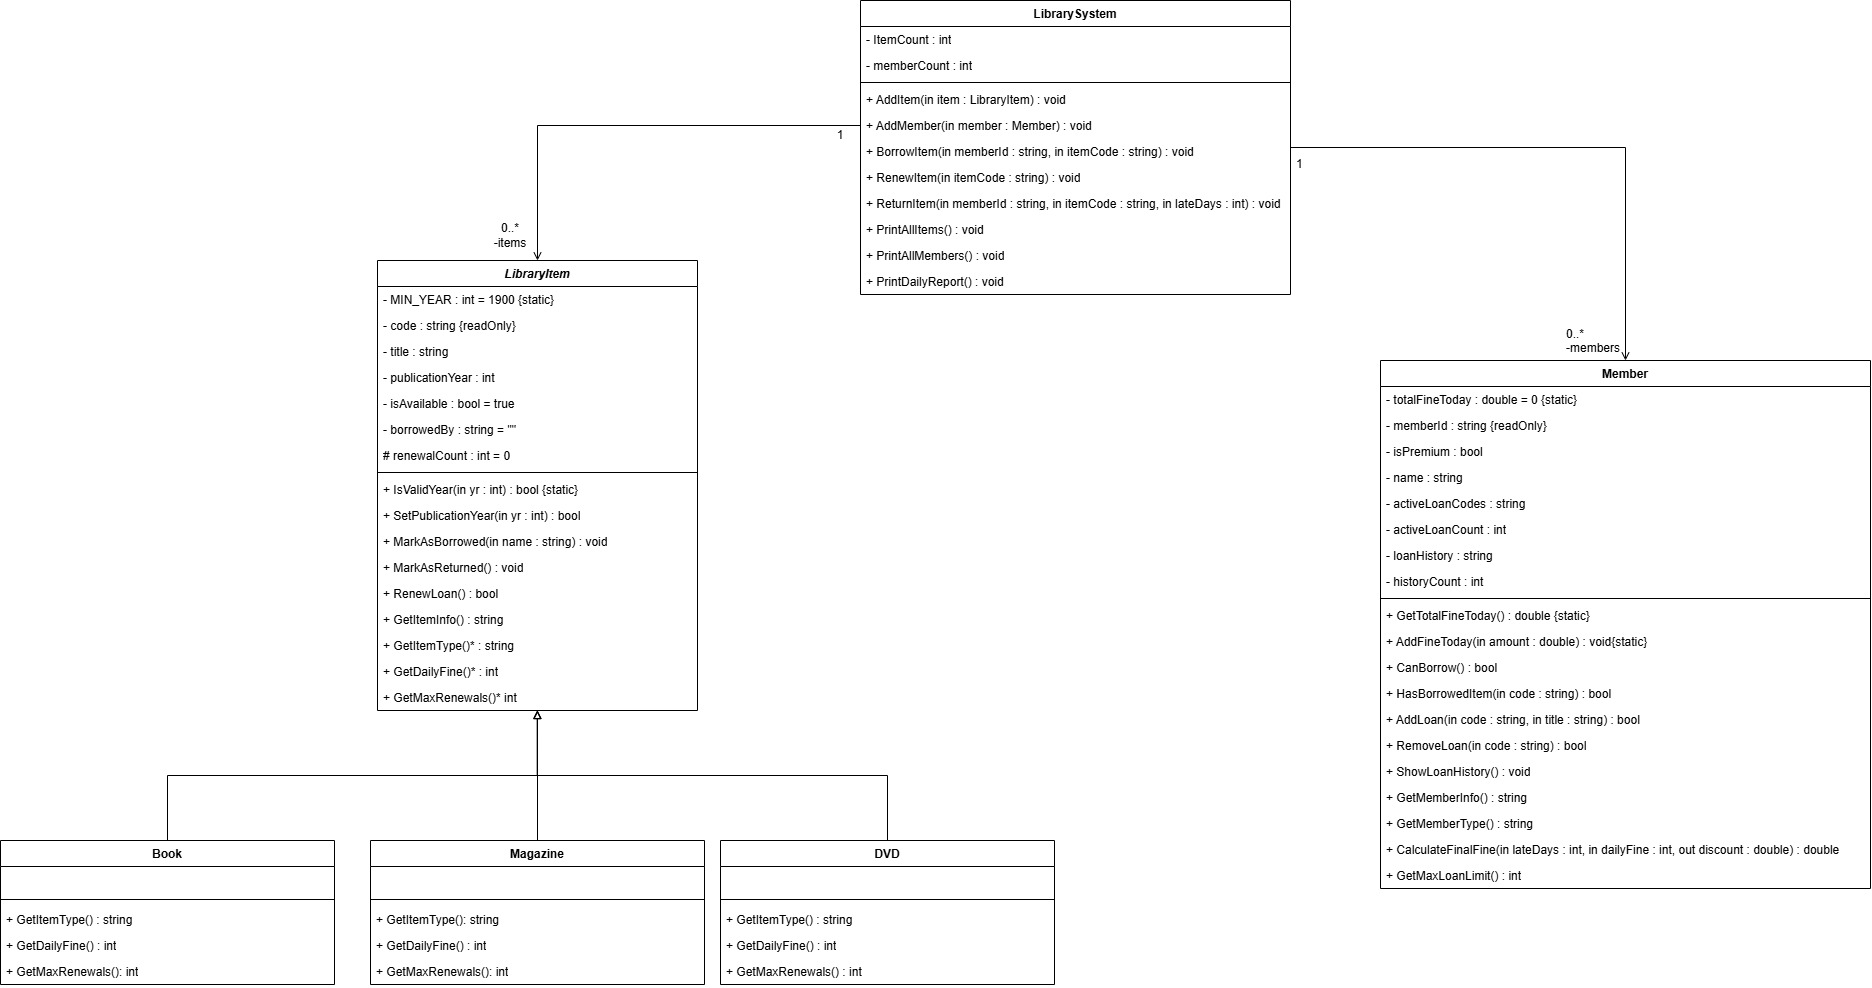
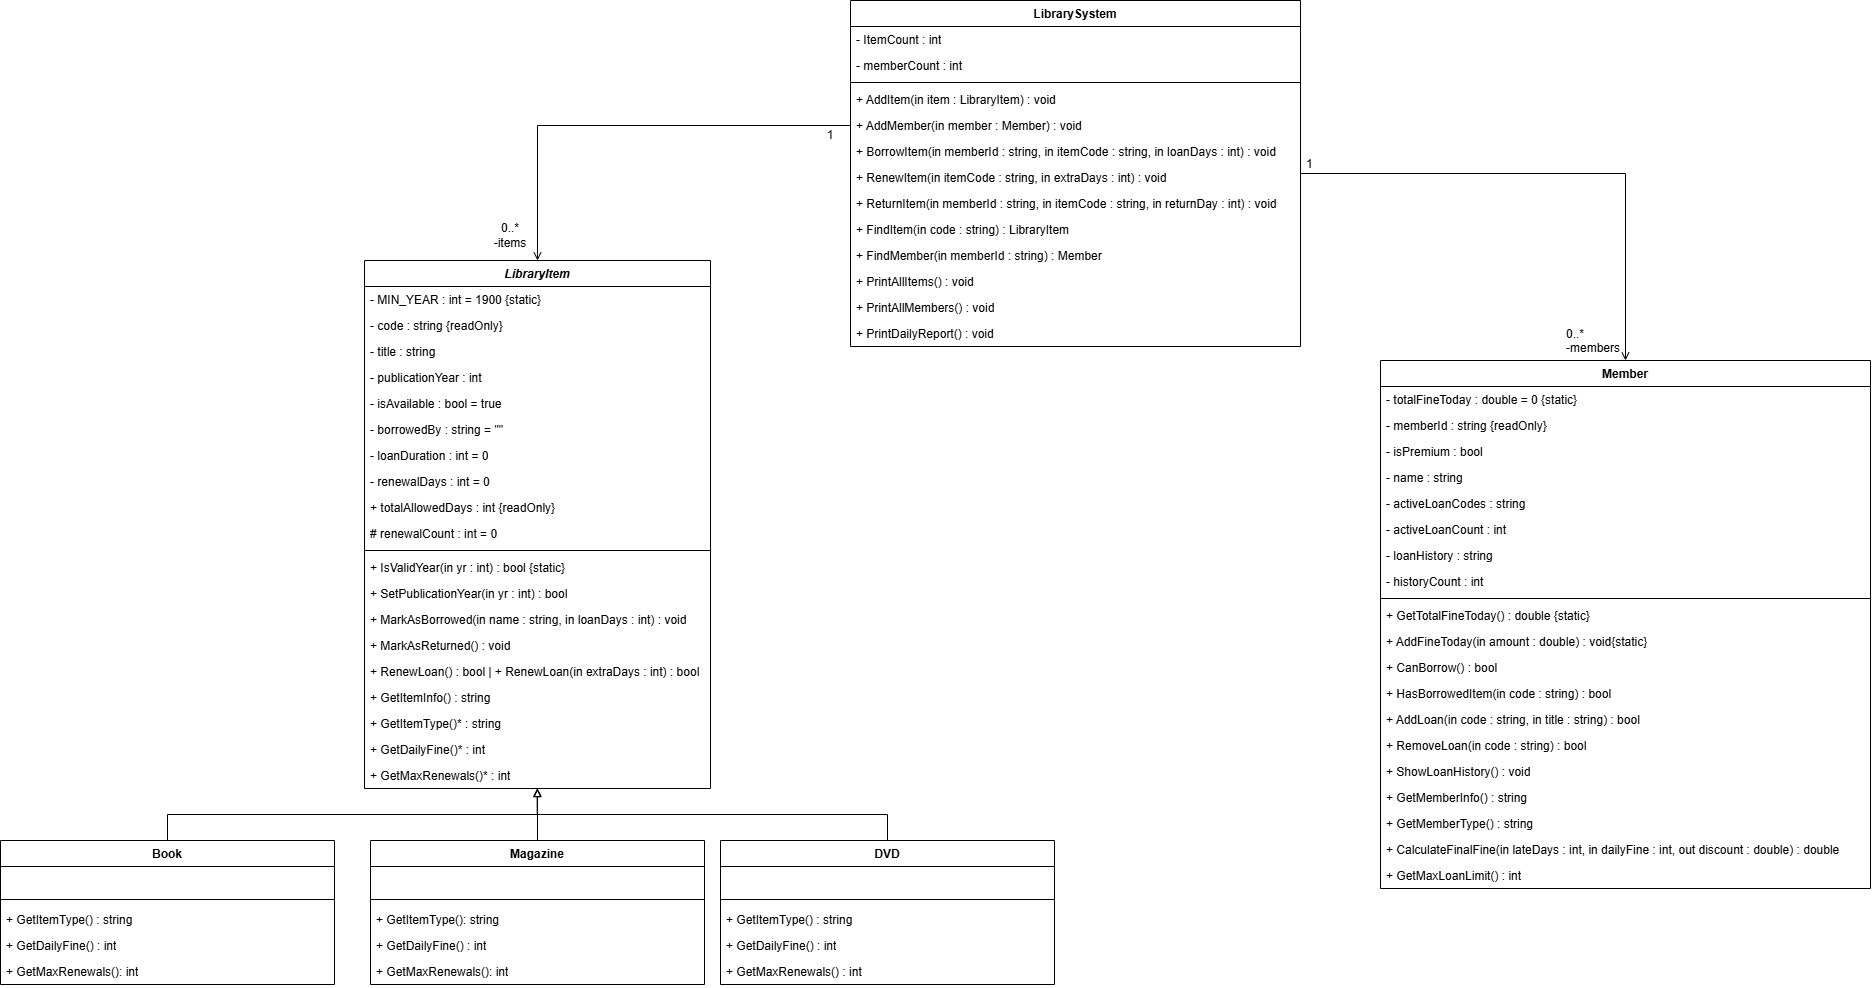
fix-classdiagram
memperbaiki nama ke inggris

Changed region(s): [[0.1859, 0.2733, 0.3718, 0.7895], [0.4647, 0.0304, 0.6816, 0.3644]]

diff --git a/Perpustakaan/LoanFeature.cs b/Perpustakaan/LoanFeature.cs
@@ -13,41 +13,41 @@ internal static class LoanFeature
     public static void ProcessBorrow(LibrarySystem system)
     {
         Console.WriteLine("\n--- PEMINJAMAN BAHAN PUSTAKA ---");
-        string idPinjam = Validation.ReadNonEmptyString("Masukkan Nomor Anggota (contoh: 1): ");
-        string kodePinjam = Validation.ReadNonEmptyString("Masukkan Kode Bahan Pustaka (contoh: 1, B001): ");
+        string memberId = Validation.ReadNonEmptyString("Masukkan Nomor Anggota (contoh: 1): ");
+        string itemCode = Validation.ReadNonEmptyString("Masukkan Kode Bahan Pustaka (contoh: 1, B001): ");
         int loanDays = Validation.ReadPositiveInt("Masukkan masa pinjam (hari): ");
 
-        system.BorrowItem(idPinjam, kodePinjam, loanDays);
+        system.BorrowItem(memberId, itemCode, loanDays);
     }
 
     // Case 4: Perpanjang Peminjaman
     public static void ProcessRenew(LibrarySystem system)
     {
         Console.WriteLine("\n--- PERPANJANG PEMINJAMAN ---");
-        string kodePerpanjang = Validation.ReadNonEmptyString("Masukkan Kode Bahan Pustaka yang akan diperpanjang: ");
+        string itemCode = Validation.ReadNonEmptyString("Masukkan Kode Bahan Pustaka yang akan diperpanjang: ");
         int extraDays = Validation.ReadPositiveInt("Perpanjang berapa hari?: ");
 
-        system.RenewItem(kodePerpanjang, extraDays);
+        system.RenewItem(itemCode, extraDays);
     }
 
     // Case 5: Kembalikan Bahan Pustaka
     public static void ProcessReturn(LibrarySystem system)
     {
         Console.WriteLine("\n--- PENGEMBALIAN BAHAN PUSTAKA ---");
-        string idKembali = Validation.ReadNonEmptyString("Masukkan Nomor Anggota: ");
-        string kodeKembali = Validation.ReadNonEmptyString("Masukkan Kode Bahan Pustaka: ");
+        string memberId = Validation.ReadNonEmptyString("Masukkan Nomor Anggota: ");
+        string itemCode = Validation.ReadNonEmptyString("Masukkan Kode Bahan Pustaka: ");
         int returnDay = Validation.ReadPositiveInt("Dikembalikan pada hari ke berapa?: ");
 
-        system.ReturnItem(idKembali, kodeKembali, returnDay);
+        system.ReturnItem(memberId, itemCode, returnDay);
     }
 
     // Case 7: Tampilkan Riwayat Peminjaman Anggota
     public static void ProcessMemberHistory(LibrarySystem system)
     {
         Console.WriteLine("\n--- RIWAYAT PEMINJAMAN ANGGOTA ---");
-        string idRiwayat = Validation.ReadNonEmptyString("Masukkan Nomor Anggota yang ingin dilihat riwayatnya: ");
+        string memberId = Validation.ReadNonEmptyString("Masukkan Nomor Anggota yang ingin dilihat riwayatnya: ");
 
-        Member? member = system.FindMember(idRiwayat);
+        Member? member = system.FindMember(memberId);
         if (member != null)
         {
             member.ShowLoanHistory();

diff --git a/Perpustakaan/LibrarySystem.cs b/Perpustakaan/LibrarySystem.cs
@@ -231,27 +231,27 @@ internal class LibrarySystem
     // 8. Laporan Hari Ini
     public void PrintDailyReport()
     {
-        int countBuku = 0, countMajalah = 0, countDVD = 0;
-        int totalDipinjam = 0;
+        int bookCount = 0, magazineCount = 0, dvdCount = 0;
+        int totalBorrowed = 0;
 
         for (int i = 0; i < itemCount; i++)
         {
             string type = items[i].GetItemType();
-            if (type.Equals("Buku", StringComparison.OrdinalIgnoreCase) || type.Equals("Book", StringComparison.OrdinalIgnoreCase)) countBuku++;
-            else if (type.Equals("Majalah", StringComparison.OrdinalIgnoreCase) || type.Equals("Magazine", StringComparison.OrdinalIgnoreCase)) countMajalah++;
-            else if (type.Equals("DVD", StringComparison.OrdinalIgnoreCase)) countDVD++;
+            if (type.Equals("Buku", StringComparison.OrdinalIgnoreCase) || type.Equals("Book", StringComparison.OrdinalIgnoreCase)) bookCount++;
+            else if (type.Equals("Majalah", StringComparison.OrdinalIgnoreCase) || type.Equals("Magazine", StringComparison.OrdinalIgnoreCase)) magazineCount++;
+            else if (type.Equals("DVD", StringComparison.OrdinalIgnoreCase)) dvdCount++;
 
             if (!items[i].IsAvailable)
             {
-                totalDipinjam++;
+                totalBorrowed++;
             }
         }
 
         Console.WriteLine("\n=== LAPORAN HARIAN PERPUSTAKAAN ===");
-        Console.WriteLine("Jumlah Buku   : " + countBuku);
-        Console.WriteLine("Jumlah Majalah: " + countMajalah);
-        Console.WriteLine("Jumlah DVD    : " + countDVD);
-        Console.WriteLine("Total Dipinjam: " + totalDipinjam);
+        Console.WriteLine("Jumlah Buku   : " + bookCount);
+        Console.WriteLine("Jumlah Majalah: " + magazineCount);
+        Console.WriteLine("Jumlah DVD    : " + dvdCount);
+        Console.WriteLine("Total Dipinjam: " + totalBorrowed);
         Console.WriteLine("Total Denda Hari Ini: Rp " + Member.GetTotalFineToday());
         Console.WriteLine("===================================");
     }

diff --git a/Perpustakaan/ItemFeature.cs b/Perpustakaan/ItemFeature.cs
@@ -17,26 +17,26 @@ internal static class ItemFeature
         Console.WriteLine("2. Majalah (Denda Rp 500/hari, Maks. Perpanjang 1x)");
         Console.WriteLine("3. DVD (Denda Rp 3.000/hari, Tidak Bisa Diperpanjang)");
 
-        int jenisPilihan = Validation.ReadIntInRange("Pilihan (1-3): ", 1, 3);
+        int itemChoice = Validation.ReadIntInRange("Pilihan (1-3): ", 1, 3);
 
-        string kodeBaru = Validation.ReadNonEmptyString("Masukkan Kode Bahan Pustaka (unik): ");
+        string newCode = Validation.ReadNonEmptyString("Masukkan Kode Bahan Pustaka (unik): ");
 
         // Cek duplikasi kode item sebelum membuat objek
-        if (system.FindItem(kodeBaru) != null)
+        if (system.FindItem(newCode) != null)
         {
-            Console.WriteLine($"\n[Gagal] Kode bahan pustaka '{kodeBaru}' sudah terdaftar dalam sistem.");
+            Console.WriteLine($"\n[Gagal] Kode bahan pustaka '{newCode}' sudah terdaftar dalam sistem.");
             return;
         }
 
-        string judulBaru = Validation.ReadNonEmptyString("Masukkan Judul: ");
-        int tahunBaru = Validation.ReadPublicationYear($"Masukkan Tahun Terbit (1900-{DateTime.Now.Year}): ");
+        string newTitle = Validation.ReadNonEmptyString("Masukkan Judul: ");
+        int newYear = Validation.ReadPublicationYear($"Masukkan Tahun Terbit (1900-{DateTime.Now.Year}): ");
 
         // POLYMORPHISM: Membuat instance child class sesuai pilihan, ditampung sebagai LibraryItem
-        LibraryItem? newItem = jenisPilihan switch
+        LibraryItem? newItem = itemChoice switch
         {
-            1 => new Book(kodeBaru, judulBaru, tahunBaru),
-            2 => new Magazine(kodeBaru, judulBaru, tahunBaru),
-            3 => new Dvd(kodeBaru, judulBaru, tahunBaru),
+            1 => new Book(newCode, newTitle, newYear),
+            2 => new Magazine(newCode, newTitle, newYear),
+            3 => new Dvd(newCode, newTitle, newYear),
             _ => null
         };
 

diff --git a/Perpustakaan/LibraryApp.cs b/Perpustakaan/LibraryApp.cs
@@ -28,10 +28,10 @@ internal class LibraryApp
         {
             DisplayMenu();
 
-            int pilihan = Validation.ReadIntInRange("Pilih menu (0-8): ", 0, 8);
+            int choice = Validation.ReadIntInRange("Pilih menu (0-8): ", 0, 8);
             Console.WriteLine();
 
-            switch (pilihan)
+            switch (choice)
             {
                 case 1:
                     Report.ShowAllItems(system);

diff --git a/README.md b/README.md
@@ -6,22 +6,3 @@ Proyek latihan Object-Oriented Programming (OOP) berbasis C# / .NET.
 
 ## Class Diagram
 ![Class Diagram](docs/Class_Diagram.jpg)
-
-## Cara Menjalankan Project
-
-### 1. Clone Repository
-```bash
-git clone https://github.com/FathanMuhammad/Practice-OOP-Perpustakaan.git
-cd Practice-OOP-Perpustakaan
-```
-
-### 2. Membuka Solution
-- **Visual Studio 2022 (v17.10+)**: Double-click `Practice-OOP-Perpustakaan.slnx` atau buka via `File -> Open -> Project/Solution`.
-- **VS Code**: Buka folder root `Practice-OOP-Perpustakaan` dengan extension *C# Dev Kit* terinstall.
-
-### 3. Build & Run via CLI
-```bash
-dotnet restore
-dotnet build
-dotnet run --project Perpustakaan
-```
